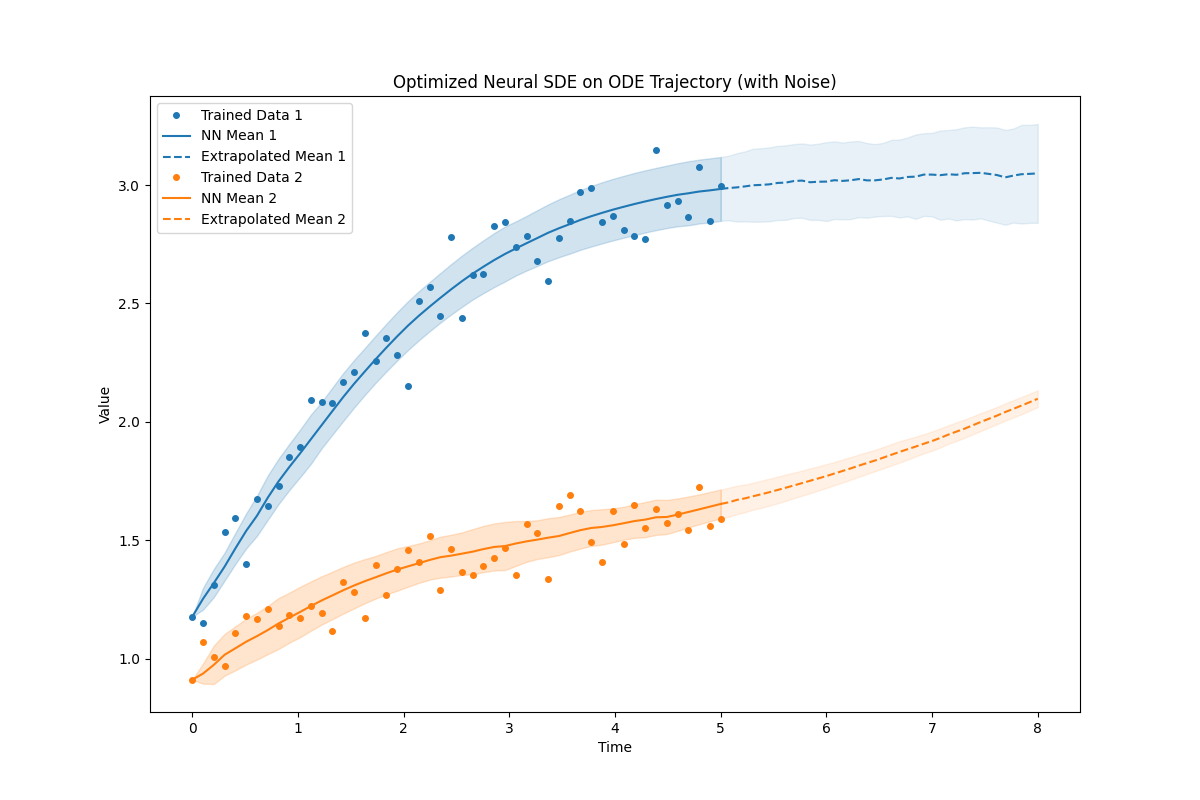
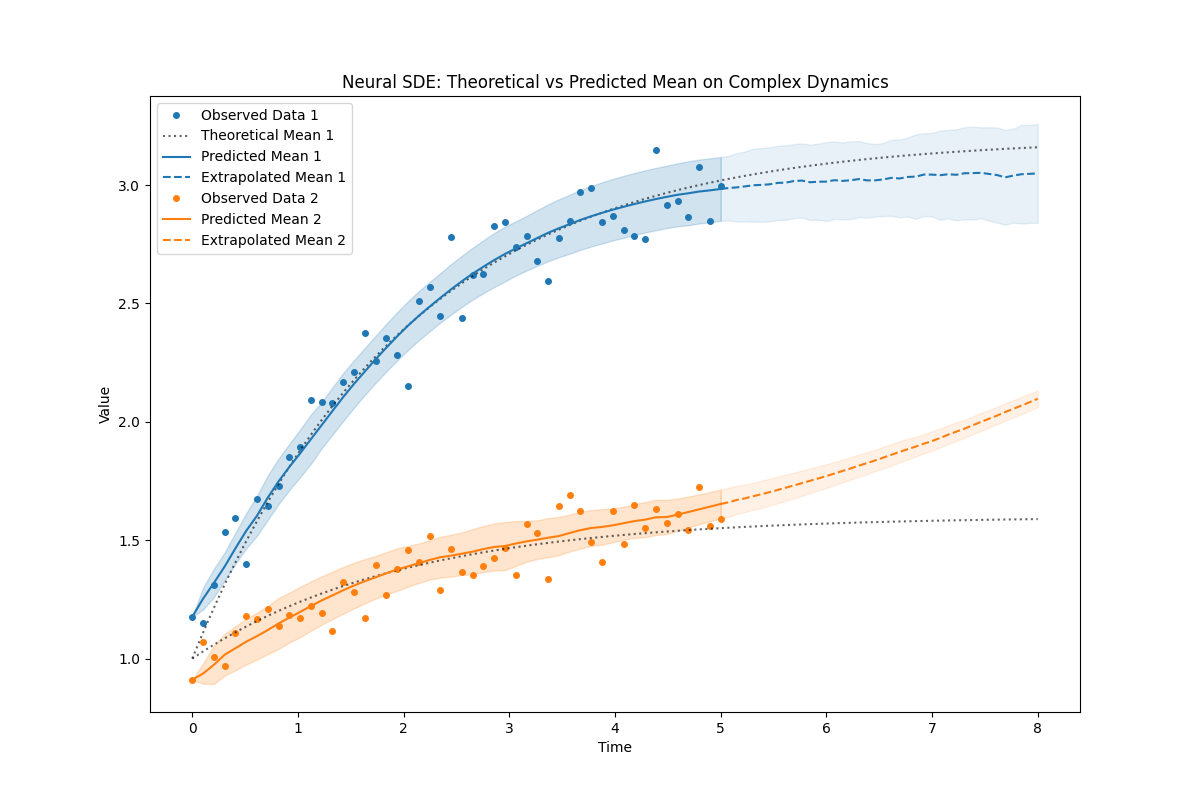
Updated complex dynamics section to compare underlying mean trajectories

Changed region(s): [[0.1233, 0.125, 0.2775, 0.3125], [0.2775, 0.0938, 0.74, 0.125]]

diff --git a/papers/pavan_govindaraju/scripts/sde_ode_trajectory.py b/papers/pavan_govindaraju/scripts/sde_ode_trajectory.py
@@ -84,8 +84,14 @@ def run_ode_trajectory_sde_example():
     print("Running Optimized Neural SDE on ODE trajectory (with noise)...")
     # Generate smooth synthetic time-series data (2D) - same as ODE example but with noise
     t = np.linspace(0, 5, 50)
-    y1 = 1.0 + 2.2 * (1 - np.exp(-0.5 * t)) + np.random.normal(0, 0.1, 50)
-    y2 = 1.0 + 0.6 * (1 - np.exp(-0.5 * t)) + np.random.normal(0, 0.1, 50)
+    
+    # Underlying theoretical trajectory
+    y1_theory = 1.0 + 2.2 * (1 - np.exp(-0.5 * t))
+    y2_theory = 1.0 + 0.6 * (1 - np.exp(-0.5 * t))
+    
+    # Noisy observations
+    y1 = y1_theory + np.random.normal(0, 0.1, 50)
+    y2 = y2_theory + np.random.normal(0, 0.1, 50)
     data = np.stack([y1, y2], axis=1)
 
     # Use float32 for speed
@@ -108,8 +114,14 @@ def run_ode_trajectory_sde_example():
     sde.train(num_epochs=500, print_every=50)
 
     # Extrapolate
-    extrapolated = sde.extrapolate(tf=8, npts=40)
+    tf_extra = 8
+    extrapolated = sde.extrapolate(tf=tf_extra, npts=40)
     
+    # Theoretical extrapolation
+    t_extra = np.linspace(0, tf_extra, 100)
+    y1_theory_extra = 1.0 + 2.2 * (1 - np.exp(-0.5 * t_extra))
+    y2_theory_extra = 1.0 + 0.6 * (1 - np.exp(-0.5 * t_extra))
+
     # Plotting
     plt.figure(figsize=(12, 8))
     t_np = sde.t.cpu().numpy()
@@ -118,16 +130,21 @@ def run_ode_trajectory_sde_example():
     extra_t = extrapolated['time']
     extra_v = extrapolated['values'].detach().cpu().numpy()
 
+    theory_extra = [y1_theory_extra, y2_theory_extra]
+
     for i in range(data_np.shape[1]):
         # Plot trained data
-        line, = plt.plot(t_np, data_np[:, i], 'o', label=f'Trained Data {i+1}', markersize=4)
+        line, = plt.plot(t_np, data_np[:, i], 'o', label=f'Observed Data {i+1}', markersize=4)
         color = line.get_color()
         
+        # Plot theoretical trajectory
+        plt.plot(t_extra, theory_extra[i], ':', color='black', alpha=0.6, label=f'Theoretical Mean {i+1}' if i == 0 else "")
+
         # Plot NN solution mean and std
         # nn_data_np shape: (time, batch_size, data_dim)
         mean = np.mean(nn_data_np[:, :, i], axis=1)
         std = np.std(nn_data_np[:, :, i], axis=1)
-        plt.plot(t_np, mean, '-', color=color, label=f'NN Mean {i+1}')
+        plt.plot(t_np, mean, '-', color=color, label=f'Predicted Mean {i+1}')
         plt.fill_between(t_np, mean - std, mean + std, color=color, alpha=0.2)
         
         # Plot extrapolation mean and std
@@ -138,11 +155,11 @@ def run_ode_trajectory_sde_example():
 
     plt.xlabel('Time')
     plt.ylabel('Value')
-    plt.title('Optimized Neural SDE on ODE Trajectory (with Noise)')
+    plt.title('Neural SDE: Theoretical vs Predicted Mean on Complex Dynamics')
     plt.legend()
-    plt.savefig('sde_ode_trajectory_results.png')
+    plt.savefig('results/trajectory_sde_results.png')
     plt.close()
-    print("Neural SDE on ODE trajectory finished. Plot saved as sde_ode_trajectory_results.png")
+    print("Neural SDE on ODE trajectory finished. Plot saved as results/trajectory_sde_results.png")
 
 if __name__ == "__main__":
     run_ode_trajectory_sde_example()

diff --git a/papers/pavan_govindaraju/main.md b/papers/pavan_govindaraju/main.md
@@ -100,7 +100,7 @@ The gradient with respect to the model parameters $\theta$ is then computed as:
 \frac{d\mathcal{L}}{d\theta} = -\int_{t_1}^{t_0} a(t)^T \frac{\partial f(y(t), t, \theta)}{\partial \theta} dt
 ```
 
-This enables the training of complex models on large time-series datasets that would otherwise be computationally prohibitive.
+This enables the training of complex models on large time-series datasets that would otherwise be computationally prohibitive. The memory efficiency stems from the fact that the adjoint method does not require storing intermediate states $y(t)$ from the forward pass. Instead, the original ODE is solved backwards in time alongside the adjoint equation, reconstructing the state $y(t)$ on the fly. This reduces the memory complexity from $O(N)$, where $N$ is the number of solver steps, to $O(1)$ relative to the trajectory length.
 
 #### torchsde
 For stochastic systems, NODEFit integrates `torchsde` [@li2020scalable]. Stochastic Differential Equations present unique challenges, particularly in ensuring consistent Brownian motion across multiple steps and handling the nuances of stochastic calculus. 
@@ -147,7 +147,22 @@ When converted back to Itô form for numerical stability and implementation, thi
 da(t) = -\left[ a(t) \frac{\partial f}{\partial y} - \sum_j \left( \frac{\partial g_j}{\partial y} \right) \left( a(t) \frac{\partial g_j}{\partial y} \right)^T \right] dt - \sum_j \left( a(t) \frac{\partial g_j}{\partial y} \right) dW_t
 ```
 
-where $g_j$ are the columns of the diffusion matrix $g$. This allows NODEFit to learn diffusion processes with high precision and stability while maintaining a manageable memory footprint.
+where $g_j$ are the columns of the diffusion matrix $g$. This allows NODEFit to learn diffusion processes with high precision and stability while maintaining a manageable memory footprint. Similar to the deterministic case, the stochastic adjoint avoids storing the full trajectory. However, SDEs require consistent noise across both forward and backward passes. `torchsde` achieves this through a **Virtual Brownian Tree**, which allows for the exact reconstruction of the Brownian motion $W_t$ at any time point using a fixed seed. By reconstructing both the state and the noise during the backward pass, the memory cost remains constant even for complex stochastic trajectories.
+
+#### Memory Efficiency Comparison
+
+The primary advantage of the adjoint methods used in NODEFit is the reduction in memory overhead. The following table summarizes the comparison between the naive backpropagation approach and the adjoint-based methods implemented in `torchdiffeq` and `torchsde`.
+
+:::{table} Comparison of memory efficiency and computational trade-offs between naive backpropagation and the adjoint sensitivity method.
+:label: table:memory_comparison
+
+| Feature | Naive Backprop | Adjoint Method (NODEFit) |
+| :--- | :--- | :--- |
+| **Intermediate States** | Stored in memory | Reconstructed on the fly |
+| **Memory Scaling** | $O(N)$ (Linear with steps) | $O(1)$ (Constant with steps) |
+| **Noise (SDEs)** | Must be stored for every step | Regenerated via Virtual Brownian Tree |
+| **Trade-off** | Faster (no reconstruction) | Slower (requires solving backwards) |
+:::
 
 ### Performance Optimizations
 
@@ -228,11 +243,21 @@ Neural SDE fit and extrapolation. The shaded regions represent the standard devi
 
 ### Fitting Complex Dynamics
 
-We also tested NODEFit on a more complex 2D system with noise. The model was tasked with learning the underlying dynamics and providing robust extrapolations. As shown in @fig:trajectory_results, the Neural SDE successfully recovers the mean trajectory while providing a well-calibrated uncertainty estimate.
+We also tested NODEFit on a more complex 2D system with noise. The underlying theoretical trajectories for this system are governed by the following equations:
+
+```{math}
+:label: eq:theoretical_mean
+\begin{aligned}
+y_1(t) &= 1.0 + 2.2(1 - e^{-0.5t}) \\
+y_2(t) &= 1.0 + 0.6(1 - e^{-0.5t})
+\end{aligned}
+```
+
+The model was tasked with learning these underlying dynamics and providing robust extrapolations. As shown in @fig:trajectory_results, the Neural SDE successfully recovers the mean trajectory, closely matching the underlying theoretical dynamics even in the presence of noise. The comparison between the theoretical mean and the predicted mean demonstrates the model's ability to filter out stochastic fluctuations and capture the true governing laws.
 
 :::{figure} results/trajectory_sde_results.png
 :label: fig:trajectory_results
-Neural SDE fit on a complex 2D trajectory. The model captures the multi-dimensional dynamics and provides reliable extrapolations with increasing uncertainty.
+Neural SDE fit on a complex 2D trajectory. The dotted black line represents the underlying theoretical trajectory, while the solid lines and shaded regions show the predicted mean and uncertainty. The model captures the multi-dimensional dynamics and provides reliable extrapolations.
 :::
 
 ## Conclusion
